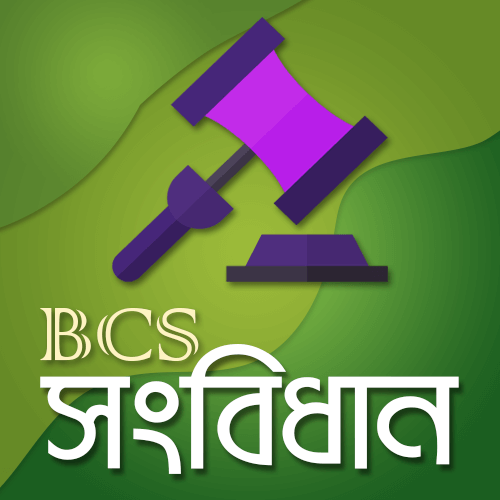
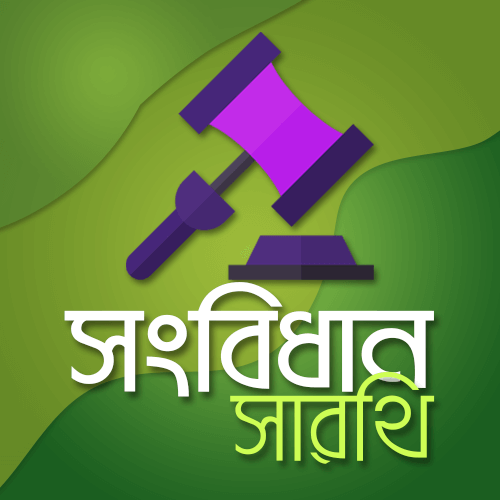
ASDASD234

diff --git a/lib/main.dart b/lib/main.dart
@@ -4,7 +4,7 @@ import 'dart:async';
 import 'dart:convert';
 // import 'package:http/http.dart' as http;
 import 'package:shared_preferences/shared_preferences.dart';
-import 'package:url_launcher/url_launcher.dart';
+// import 'package:url_launcher/url_launcher.dart';
 import 'package:onesignal_flutter/onesignal_flutter.dart';
 import 'package:slide_popup_dialog/slide_popup_dialog.dart' as slideDialog;
 import 'package:flutter_share/flutter_share.dart';
@@ -27,7 +27,7 @@ import 'globals.dart';
 
 void main() {
   var materialApp = MaterialApp(
-    title: 'BCS সংবিধান',
+    title: 'সংবিধান সারথি',
     theme: ThemeData(
       primarySwatch: Colors.green,
       fontFamily: 'Kalpurush',
@@ -74,7 +74,7 @@ class _HomePageState extends State<HomePage>
   Future<void> share() async {
     await FlutterShare.share(
         title: 'শেয়ার করুন',
-        text: 'BCS সংবিধান',
+        text: 'সংবিধান সারথি',
         linkUrl: 'https://orbachinujbuk.com/',
         chooserTitle: 'অ্যাপটি শেয়ার করুন!');
   }
@@ -138,7 +138,7 @@ class _HomePageState extends State<HomePage>
       key: _globalKey,
       appBar: AppBar(
         elevation: 0,
-        title: Text('BCS সংবিধান'),
+        title: Text('সংবিধান সারথি'),
         flexibleSpace: appBarStyle(),
         actions: <Widget>[
           PopupMenuButton(
@@ -315,7 +315,7 @@ class _HomePageState extends State<HomePage>
           Positioned(
             left: 30,
             bottom: 40,
-            child: Text('BCS সংবিধান', style: TextStyle(color: Colors.white, fontSize: 16)),
+            child: Text('সংবিধান সারথি', style: TextStyle(color: Colors.white, fontSize: 16)),
           ),
           Positioned(
             left: 30,
@@ -543,7 +543,7 @@ class _HomePageState extends State<HomePage>
           children: <Widget>[
             Image.asset("assets/images/android-icon.png", width: 80, height: 80,),
             SizedBox(height: 10,),
-            Text('BCS সংবিধান', style: TextStyle(color: Colors.green[800], fontSize: 20)),
+            Text('সংবিধান সারথি', style: TextStyle(color: Colors.green[800], fontSize: 20)),
             SizedBox(height: 10,),
             Text('একটি Innova Tech Inc. পণ্য'),
             SizedBox(height: 10,),

diff --git a/lib/pages/qstnandans.dart b/lib/pages/qstnandans.dart
@@ -79,6 +79,11 @@ class _QuestionAnswerPageState extends State<QuestionAnswerPage> {
       _getSynced(questions.length);
     }
   }
+  _clearDB() async{
+    await _questionHelper.clearQstnTable();
+    _showSnackbar("সকল তথ্য মুছে দেওয়া হয়েছে!");
+    _loadDB();
+  }
 
   @override
   void initState() {
@@ -113,6 +118,7 @@ class _QuestionAnswerPageState extends State<QuestionAnswerPage> {
                   _getSynced(questions.length);
                   break;
                 case 'cleardb':
+                  _clearDB();
                   break;
                 default:
               }

diff --git a/lib/models/QuestionsModel.dart b/lib/models/QuestionsModel.dart
@@ -53,6 +53,12 @@ class QuestionHelper{
     );
   }
 
+  Future<void> clearQstnTable() async 
+  {
+      await db.execute("DROP TABLE IF EXISTS $tableName");
+      await db.execute("CREATE TABLE $tableName($columnId INTEGER PRIMARY KEY AUTOINCREMENT, $columnQuestion TEXT, $columnAnswer TEXT, $columnIncAnswers TEXT, $columnIsFav INTEGER DEFAULT 0 NOT NULL)");
+  }
+
   Future<void> insertQuestion(QuestionsModel question) async{
     try{
       db.insert(tableName, question.toMap(), conflictAlgorithm: ConflictAlgorithm.replace);
